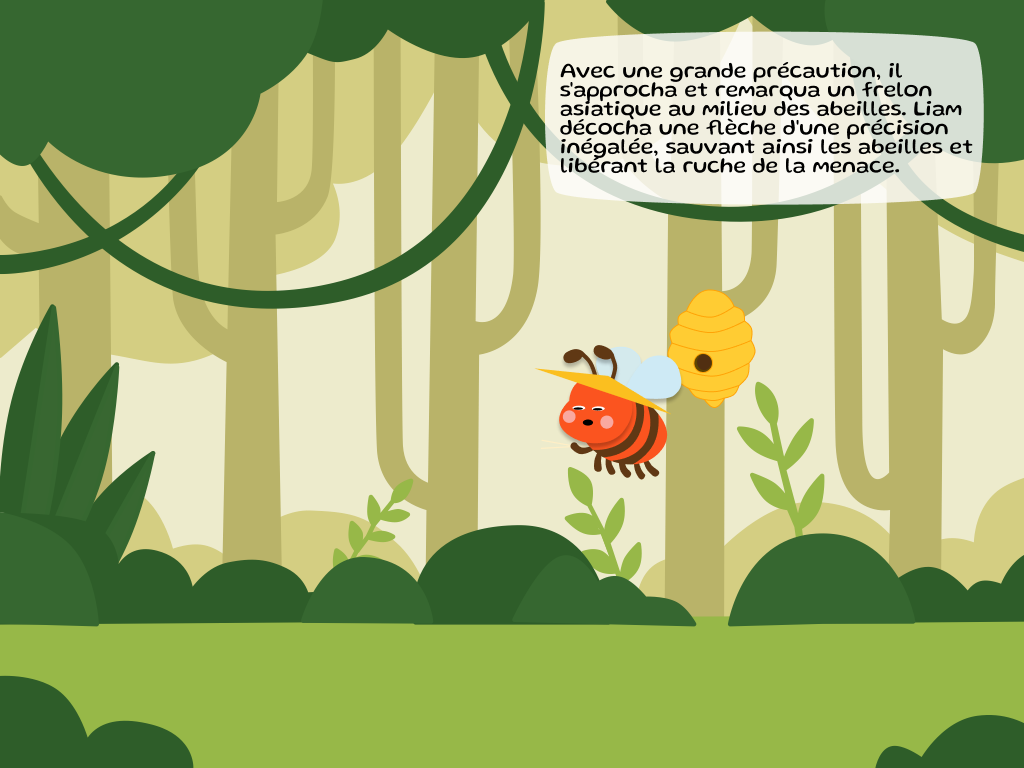
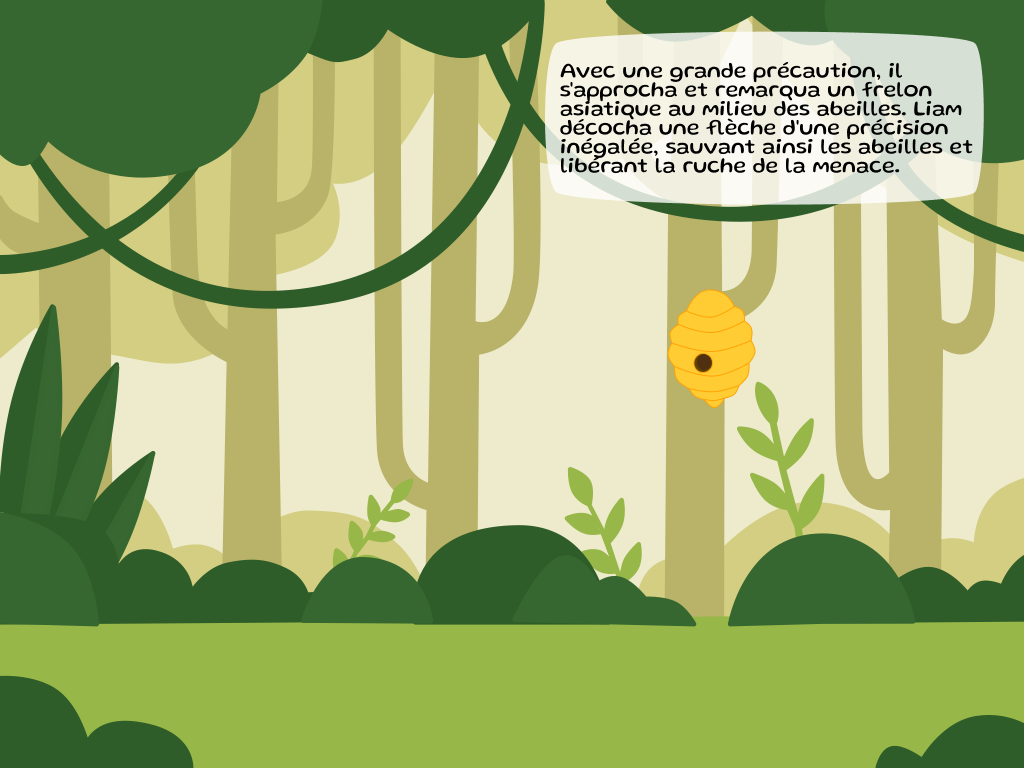
hive clickable + third page

Changed region(s): [[0.5312, 0.4375, 0.6875, 0.625]]

diff --git a/mainwindow.cpp b/mainwindow.cpp
@@ -3,6 +3,7 @@
 #include "pageone.h"
 #include "pagetwo.h"
 #include "homepage.h"
+#include "pagethree.h"
 
 #include <QPushButton>
 #include <QStackedWidget>
@@ -20,7 +21,8 @@ MainWindow::MainWindow(QWidget *parent) :
     currentPage = new QStackedWidget();
     currentPage->insertWidget(0, new HomePage(this));
     currentPage->insertWidget(1, new PageOne(this));
-    currentPage->insertWidget(2,new PageTwo(this));
+    currentPage->insertWidget(2, new PageTwo(this));
+    currentPage->insertWidget(3, new PageThree(this));
     setCentralWidget(currentPage);
 
     // Turn on fullscreen
@@ -40,8 +42,9 @@ void MainWindow::keyReleaseEvent(QKeyEvent *event) {
 /**
  * @brief Set the first Page
  */
-void MainWindow::onPlayButtonClicked() {
-    currentPage->setCurrentIndex(1);
+void MainWindow::nextPage() {
+    int index = this->currentPage->currentIndex();
+    currentPage->setCurrentIndex(++index);
 }
 
 /**

diff --git a/pagetwo.cpp b/pagetwo.cpp
@@ -1,5 +1,6 @@
 #include "pagetwo.h"
 #include "ui_pagetwo.h"
+#include "mainwindow.h"
 
 #include <QLabel>
 
@@ -12,6 +13,14 @@ PageTwo::PageTwo(QWidget *parent) :
     //Define liam moveable
     ClickableLabel *liam = this->findChild<ClickableLabel*>("liam");
     liam->setMoveable(false);
+
+    // Hidde zone of ruche
+    ClickableLabel *ruche = this->findChild<ClickableLabel*>("ruche");
+    ruche->setMoveable(false);
+
+    connect(ruche, &ClickableLabel::clicked,
+            dynamic_cast<MainWindow*>(this->parent()),
+            &MainWindow::nextPage);
 }
 
 PageTwo::~PageTwo()

diff --git a/homepage.cpp b/homepage.cpp
@@ -11,7 +11,7 @@ HomePage::HomePage(QWidget *parent) :
 
     // Signal defined for the play button
     ClickableLabel *playButton = this->findChild<ClickableLabel*>("playButton");
-    connect(playButton, &ClickableLabel::clicked, dynamic_cast<MainWindow*>(this->parent()), &MainWindow::onPlayButtonClicked);
+    connect(playButton, &ClickableLabel::clicked, dynamic_cast<MainWindow*>(this->parent()), &MainWindow::nextPage);
 }
 
 HomePage::~HomePage()

diff --git a/pagethree.h b/pagethree.h
@@ -1,0 +1,22 @@
+#ifndef PAGETHREE_H
+#define PAGETHREE_H
+
+#include <QWidget>
+
+namespace Ui {
+class PageThree;
+}
+
+class PageThree : public QWidget
+{
+    Q_OBJECT
+
+public:
+    explicit PageThree(QWidget *parent = 0);
+    ~PageThree();
+
+private:
+    Ui::PageThree *ui;
+};
+
+#endif // PAGETHREE_H

diff --git a/pagethree.cpp b/pagethree.cpp
@@ -1,0 +1,14 @@
+#include "pagethree.h"
+#include "ui_pagethree.h"
+
+PageThree::PageThree(QWidget *parent) :
+    QWidget(parent),
+    ui(new Ui::PageThree)
+{
+    ui->setupUi(this);
+}
+
+PageThree::~PageThree()
+{
+    delete ui;
+}

diff --git a/mainwindow.h b/mainwindow.h
@@ -28,7 +28,7 @@ private:
     QStackedWidget *currentPage;
 
 public slots:
-    void onPlayButtonClicked();
+    void nextPage();
     void setCurrentPage(int pageNumber);
 };
 
